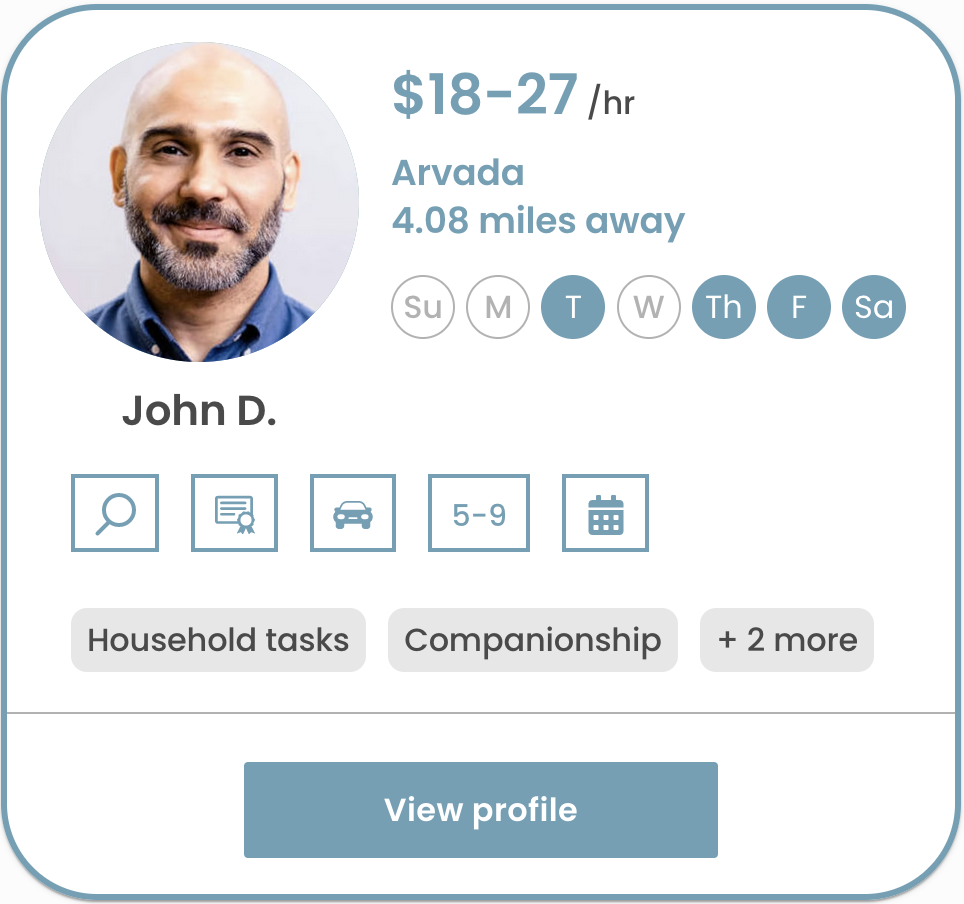
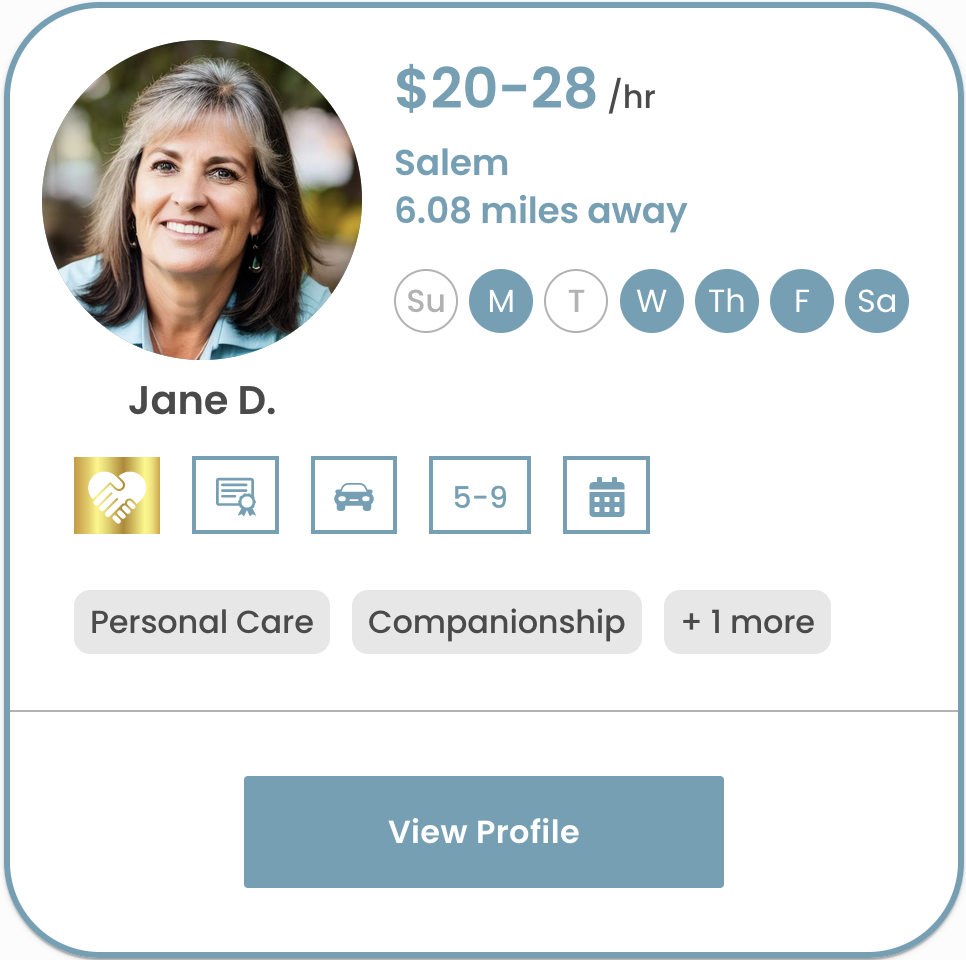
Replaced marketplace summary photos

diff --git a/src/components/TopbarDesktop/TopbarDesktop.module.css b/src/components/TopbarDesktop/TopbarDesktop.module.css
@@ -11,7 +11,7 @@
   flex-direction: row;
   justify-content: space-between;
   align-items: flex-start;
-  padding: 0 12px 0 0;
+  padding: 0 0.75rem 0 0;
 
   /* fill */
   background-color: var(--matterColorLight);
@@ -20,7 +20,7 @@
   box-shadow: var(--boxShadowLight);
 
   @media (--viewportLarge) {
-    padding: 0 24px 0 0;
+    padding: 0 1.5rem 0 0;
   }
 }
 
@@ -39,7 +39,7 @@
   }
 }
 .logoLink:hover {
-  border-bottom: 4px solid var(--marketplaceColor);
+  border-bottom: 0.25rem solid var(--marketplaceColor);
   border-radius: 0;
   text-decoration: none;
 }
@@ -52,42 +52,12 @@
   object-position: left center;
 }
 
-/* Search */
-.searchLink {
-  flex-grow: 1;
-  height: 100%;
-  margin-right: 24px;
-  border-left-style: solid;
-  border-left-width: 1px;
-  border-left-color: var(--matterColorNegative);
-
-  @media (--viewportLarge) {
-    padding-left: 0;
-  }
-}
-
-.search {
-  font-weight: var(--fontWeightMedium);
-  font-size: 15px;
-  line-height: 24px;
-  letter-spacing: 0;
-  color: var(--matterColor);
-
-  display: inline-block;
-  margin: 28px 0;
-  text-decoration: inherit;
-
-  @media (--viewportMedium) {
-    font-weight: var(--fontWeightMedium);
-  }
-}
-
 .topbarSearchWithLeftPadding {
-  padding-left: 24px;
+  padding-left: 1.5rem;
   height: var(--topbarHeightDesktop);
 
   @media (--viewportLarge) {
-    padding-left: 34px;
+    padding-left: 2.125rem;
   }
 }
 
@@ -97,20 +67,20 @@
   transition: var(--transitionStyleButton);
 
   font-weight: var(--fontWeightMedium);
-  font-size: 14px;
-  line-height: 18px;
+  font-size: 0.875rem;
+  line-height: 1.125rem;
   letter-spacing: 0;
 
   flex-shrink: 0;
   height: 100%;
-  padding: 0 12px 0 12px;
+  padding: 0 0.75rem 0 0.75rem;
   color: var(--marketplaceColor);
   margin-top: 0;
   margin-bottom: 0;
 
   &:hover {
     color: var(--marketplaceColorDark);
-    border-bottom: 4px solid var(--marketplaceColor);
+    border-bottom: 0.25rem solid var(--marketplaceColor);
     border-radius: 0;
     text-decoration: none;
   }
@@ -123,7 +93,7 @@
 }
 
 .activeLink {
-  border-bottom: 4px solid var(--marketplaceColor) !important;
+  border-bottom: 0.25rem solid var(--marketplaceColor) !important;
   border-radius: 0 !important;
   text-decoration: none !important;
 }
@@ -162,19 +132,19 @@
   transition: var(--transitionStyleButton);
 
   font-weight: var(--fontWeightMedium);
-  font-size: 14px;
-  line-height: 18px;
+  font-size: 0.875rem;
+  line-height: 1.125rem;
   letter-spacing: 0;
 
   height: 100%;
-  padding: 0 12px 0 12px;
+  padding: 0 0.75rem 0 0.75rem;
   margin: 0 1rem;
   color: var(--matterColor);
   cursor: pointer;
 
   &:hover {
     color: var(--matterColorDark);
-    border-bottom: 4px solid var(--marketplaceColor);
+    border-bottom: 0.25rem solid var(--marketplaceColor);
     border-radius: 0;
     text-decoration: none;
   }
@@ -219,14 +189,14 @@
 
 .feedbackText .notificationDot {
   /* Dimensions */
-  width: 7px;
-  height: 7px;
+  width: 0.438rem;
+  height: 0.438rem;
   border-radius: 50%;
 
   /* Position */
   position: absolute;
-  top: 3px;
-  right: -9px;
+  top: 0.188rem;
+  right: -0.563rem;
 
   /* Style: red dot */
   background-color: var(--failColor);
@@ -262,10 +232,10 @@
   align-items: center;
   height: 100%;
   margin: 0;
-  padding: 0 12px 0 12px;
+  padding: 0 0.75rem 0 0.75rem;
 
   &:hover {
-    border-bottom: 4px solid var(--marketplaceColor);
+    border-bottom: 0.25rem solid var(--marketplaceColor);
     border-radius: 0;
     text-decoration: none;
   }
@@ -298,13 +268,13 @@
   display: inline-flex;
   flex-shrink: 0;
   height: 100%;
-  padding: 0 12px 0 12px;
+  padding: 0 0.75rem 0 0.75rem;
 
   color: var(--matterColor);
 
   &:hover {
     color: var(--matterColorDark);
-    border-bottom: 4px solid var(--marketplaceColor);
+    border-bottom: 0.25rem solid var(--marketplaceColor);
     border-radius: 0;
     text-decoration: none;
   }
@@ -317,13 +287,13 @@
   display: inline-flex;
   flex-shrink: 0;
   height: 100%;
-  padding: 0 12px 0 12px;
+  padding: 0 0.75rem 0 0.75rem;
 
   color: var(--matterColor);
 
   &:hover {
     color: var(--matterColorDark);
-    border-bottom: 4px solid var(--marketplaceColor);
+    border-bottom: 0.25rem solid var(--marketplaceColor);
     border-radius: 0;
     text-decoration: none;
   }
@@ -334,20 +304,20 @@
   composes: h5 from global;
 
   display: inline-block;
-  margin: 28px 0;
+  margin: 1.75rem 0;
   text-decoration: inherit;
 
   @media (--viewportMedium) {
-    margin: 28px 0;
+    margin: 1.75rem 0;
   }
 }
 
 /* left animated "border" like hover element */
 .menuItemBorder {
   position: absolute;
-  top: 2px;
+  top: 0.125rem;
   left: 0px;
-  height: calc(100% - 4px);
+  height: calc(100% - 0.25rem);
   width: 0;
   transition: width var(--transitionStyleButton);
 }
@@ -361,7 +331,7 @@
   /* Dimensions */
   width: 100%;
   margin: 0;
-  padding: 4px 24px;
+  padding: 0.25rem 1.5rem;
 
   /* Layout details */
   color: var(--matterColor);
@@ -391,16 +361,16 @@
 
   /* Font is specific to this component */
   font-weight: var(--fontWeightMedium);
-  font-size: 14px;
-  line-height: 18px;
+  font-size: 0.875rem;
+  line-height: 1.125rem;
   letter-spacing: 0;
 
   /* Dimensions */
   position: relative;
   width: 100%;
-  min-width: 276px;
+  min-width: 17.25rem;
   margin: 0;
-  padding: 20px 24px;
+  padding: 1.25rem 1.5rem;
 
   /* Layout details */
   color: var(--marketplaceColor);
@@ -421,7 +391,7 @@
 
     & .menuItemBorder {
       height: 100%;
-      width: 6px;
+      width: 0.375rem;
       top: 0;
       background-color: var(--marketplaceColor);
     }
@@ -439,7 +409,7 @@
   position: relative;
 
   & .menuItemBorder {
-    width: 6px;
+    width: 0.375rem;
     background-color: var(--matterColorDark);
   }
 

diff --git a/src/components/SectionMarketplaceSummary/SectionMarketplaceSummary.js b/src/components/SectionMarketplaceSummary/SectionMarketplaceSummary.js
@@ -6,12 +6,8 @@ import { propTypes } from '../../util/types';
 import { NamedLink, ButtonGroup } from '../../components';
 import { CAREGIVER, EMPLOYER } from '../../util/constants';
 
-import createProfileImage from '../../assets/profile-preview.png';
-import employerListingImage from '../../assets/employer-listing-card.png';
-import caregiverInquiryMessage from '../../assets/caregiver-inquiry-message.png';
-import employerCareTypes from '../../assets/employer-care-types.png';
 import caregiverListingImage from '../../assets/caregiver-listing-card.png';
-import employerInquiryMessage from '../../assets/employer-inquiry-message.png';
+import employerListingsImage from '../../assets/employer-listings.png';
 
 import css from './SectionMarketplaceSummary.module.css';
 
@@ -64,7 +60,7 @@ const SectionMarketplaceSummary = props => {
             </div>
           </div>
           <div className={css.graphic}>
-            <img className={css.graphicImage} src={employerListingImage} />
+            <img className={css.graphicImage} src={employerListingsImage} />
           </div>
         </div>
       ) : (

diff --git a/src/forms/EnquiryForm/EnquiryForm.module.css b/src/forms/EnquiryForm/EnquiryForm.module.css
@@ -8,11 +8,11 @@
   margin-top: 10px;
   height: 60vh;
   flex-wrap: wrap;
+  overflow-x: none;
 
   @media (--viewportMedium) {
     min-height: 25rem;
     min-width: 32rem;
-    padding-inline: 1rem;
   }
 }
 
@@ -28,6 +28,7 @@
 .field {
   margin: 1.5rem 0;
   width: 100%;
+  display: block;
 }
 
 .error {
@@ -79,11 +80,11 @@
 .submitButtonWrapper {
   padding: 2rem 0;
   width: 100%;
+  display: block;
 
   @media (--viewportMedium) {
-    position: static;
     padding: 0;
-    margin-top: auto;
+    margin-top: 4rem;
   }
 }
 

diff --git a/src/containers/ListingPage/ListingPage.module.css b/src/containers/ListingPage/ListingPage.module.css
@@ -597,12 +597,13 @@
 
 .enquiryForm {
   flex-grow: 1;
-  margin: 70px 0 100px 0;
+  display: flex;
+  flex-direction: column;
 
   @media (--viewportMedium) {
     display: flex;
     flex-direction: column;
-    min-height: 25rem;
+    min-height: 32rem;
     margin: 0;
   }
 }

diff --git a/src/components/SectionMarketplaceSummary/SectionMarketplaceSummary.module.css b/src/components/SectionMarketplaceSummary/SectionMarketplaceSummary.module.css
@@ -54,7 +54,7 @@
   max-width: 100%;
 
   @media (--viewportMedium) {
-    max-height: 20rem;
+    max-height: 23emrem;
   }
 }
 
